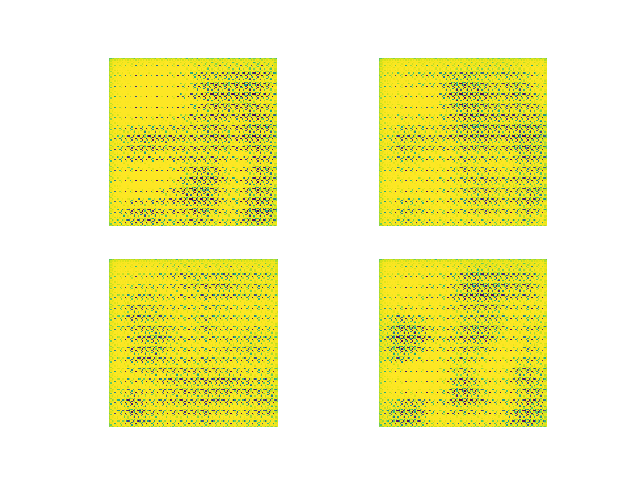
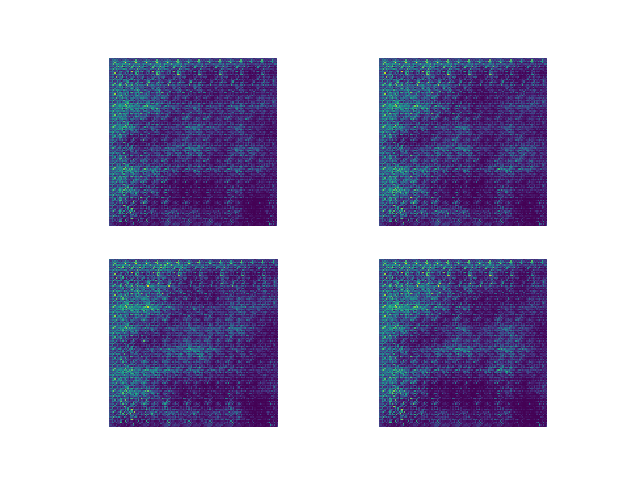
Updated GAN for prostate data
GAN works better with prostate data (ie, does not fail completely). Still does not work though. Believe issues may be do to data limitations

diff --git a/MutliChannelGAN/BuildGAN.py b/MutliChannelGAN/BuildGAN.py
@@ -14,9 +14,9 @@ import matplotlib.pyplot as plt
 
 import datetime
 
-# from MutliChannelGAN.DataGenerator import data_generator
-
-from MutliChannelGAN.MNIST_Generator import MNIST_Generator as data_generator
+from MutliChannelGAN.DataGenerator import data_generator
+#
+# from MutliChannelGAN.MNIST_Generator import MNIST_Generator as data_generator
 
 class MuiltiChannelGAN():
 
@@ -25,15 +25,15 @@ class MuiltiChannelGAN():
         tf.random.set_random_seed(1)
         np.random.seed(10)
 
-        self.batch_size = 1024
-        self.epochs = 800
+        self.batch_size = 90
+        self.epochs = 400
 
-        self.sample_size = (32, 32)
+        self.sample_size = (128, 128)
         self.number_channels = 1
 
         self.img_shape = self.sample_size + (self.number_channels,)
 
-        self.latent_dim = 100
+        self.latent_dim = 200
 
         patch = int(self.sample_size[0] / 2**4)
         self.disc_patch = (patch, patch, 1)
@@ -88,15 +88,27 @@ class MuiltiChannelGAN():
 
         noise = KL.Input(shape=(self.latent_dim,))
 
-        x = KL.Dense(128 * 8 * 8)(noise)
-        x = KL.Reshape((8, 8, 128))(x)
+        x = KL.Dense(512 * 4 * 4)(noise)
+        x = KL.Reshape((4, 4, 512))(x)
         x = KL.BatchNormalization(momentum=momentum)(x)
 
-        x = KL.Conv2DTranspose(128, 3, strides=2, padding='same')(x)
+        x = KL.Conv2DTranspose(512, 5, strides=2, padding='same')(x)
         x = KL.BatchNormalization(momentum=momentum)(x)
         x = KL.Activation('relu')(x)
 
-        x = KL.Conv2DTranspose(64, 3, strides=2, padding='same')(x)
+        x = KL.Conv2DTranspose(256, 5, strides=2, padding='same')(x)
+        x = KL.BatchNormalization(momentum=momentum)(x)
+        x = KL.Activation('relu')(x)
+
+        x = KL.Conv2DTranspose(128, 5, strides=2, padding='same')(x)
+        x = KL.BatchNormalization(momentum=momentum)(x)
+        x = KL.Activation('relu')(x)
+
+        x = KL.Conv2DTranspose(64, 5, strides=2, padding='same')(x)
+        x = KL.BatchNormalization(momentum=momentum)(x)
+        x = KL.Activation('relu')(x)
+
+        x = KL.Conv2DTranspose(32, 5, strides=2, padding='same')(x)
         x = KL.BatchNormalization(momentum=momentum)(x)
         x = KL.Activation('relu')(x)
 
@@ -105,7 +117,7 @@ class MuiltiChannelGAN():
         # x = KL.Activation('relu')(x)
 
 
-        x = KL.Conv2D(self.number_channels, 5, padding='same')(x)
+        x = KL.Conv2D(self.number_channels, 3, padding='same')(x)
         x = KL.Activation('tanh')(x)
 
 
@@ -196,43 +208,46 @@ class MuiltiChannelGAN():
 
         start_time = datetime.datetime.now()
 
-        sample_interval = 20
+        sample_interval = 25
 
-        # file_path = '../prostate_data'
-        # df = pd.read_pickle('../build_dataframe/dataframe_slice.pickle')
-        # img_filelist = df['image_filename'].loc[df['train_val_test'] == 'train'].values
+        file_path = '../prostate_data'
+        df = pd.read_pickle('../build_dataframe/dataframe_slice.pickle')
+        img_filelist = df['image_filename'].loc[df['train_val_test'] == 'train'].values
+
+        label_filelist = df['label_filename'].loc[df['train_val_test'] == 'train'].values
+
+
+
+        batch_step_size = int(len(img_filelist) / self.batch_size)
+
+        train_gen = data_generator(img_filelist[:batch_step_size * self.batch_size],
+                                   label_filelist[:batch_step_size * self.batch_size],
+                                   file_path, batch_size=self.batch_size, sample_size=self.sample_size,
+                                   shuffle=True, augment=False)
+
+
+        # file_path = 'mnist_train.csv'
         #
-        # label_filelist = df['label_filename'].loc[df['train_val_test'] == 'train'].values
+        #
+        # batch_step_size = int(60000 / self.batch_size)
+        #
+        # train_gen = data_generator(file_path, self.batch_size)
         #
         #
+        # # Load the dataset
+        # (X_train, _), (_, _) = mnist.load_data()
         #
-        # batch_step_size = int(len(img_filelist) / self.batch_size)
+        # X_train = np.pad(X_train, ((0, 0), (2, 2), (2, 2)), mode='constant', constant_values=0)
         #
-        # train_gen = data_generator(img_filelist[:batch_step_size * self.batch_size],
-        #                            label_filelist[:batch_step_size * self.batch_size],
-        #                            file_path, batch_size=self.batch_size, sample_size=self.sample_size,
-        #                            shuffle=True, augment=False)
-
-
-        file_path = 'mnist_train.csv'
-
-
-        batch_step_size = int(60000 / self.batch_size)
-
-        train_gen = data_generator(file_path, self.batch_size)
-
-
-        # Load the dataset
-        (X_train, _), (_, _) = mnist.load_data()
-
-        X_train = np.pad(X_train, ((0, 0), (2, 2), (2, 2)), mode='constant', constant_values=0)
-
-        X_train = (X_train.astype(np.float32) / 127.5) - 1
-        X_train = np.expand_dims(X_train, axis=-1)
-
-        N_sample = X_train.shape[0]
-        N_batch_step = int(N_sample / self.batch_size)
-        # half_batch = int(self.batch_size/2)
+        # # X_train = (X_train.astype(np.float32) / 127.5) - 1
+        #
+        # X_train = (X_train.astype(np.float32) - X_train.min()) / (X_train.max() - X_train.min())
+        #
+        # X_train = np.expand_dims(X_train, axis=-1)
+        #
+        # N_sample = X_train.shape[0]
+        # N_batch_step = int(N_sample / self.batch_size)
+        # # half_batch = int(self.batch_size/2)
 
 
         # Adversarial loss ground truths
@@ -242,12 +257,13 @@ class MuiltiChannelGAN():
 
 
         for epoch in range(self.epochs):
-            for batch_i in range(1): #range(batch_step_size):
+            for batch_i in range(batch_step_size): #range(batch_step_size):
 
-                # # Select a random batch of images
-                # imgs = next(train_gen)
-                idx = np.random.randint(0, X_train.shape[0], self.batch_size)
-                imgs = X_train[idx]
+                # Select a random batch of images
+                imgs = next(train_gen)
+
+                # idx = np.random.randint(0, X_train.shape[0], self.batch_size)
+                # imgs = X_train[idx]
 
 
                 # ---------------------
@@ -283,14 +299,23 @@ class MuiltiChannelGAN():
 
                 elapsed_time = datetime.datetime.now() - start_time
 
-                print("%d [D loss_real: %f, loss_fake: %f, acc_real: %.2f%%, acc_fake: %.2f%%] [G loss: %f] time: %s" % (
+                # print("%d [D loss_real: %f, loss_fake: %f, acc_real: %.2f%%, acc_fake: %.2f%%] [G loss: %f] time: %s" % (
+                #     epoch,
+                #     d_loss_real[0],
+                #     d_loss_fake[0],
+                #     100 * d_loss_real[1],
+                #     100 * d_loss_fake[1],
+                #     g_loss,
+                #     elapsed_time))
+
+
+                print("%d [D loss: %f, acc: %.2f%%] [G loss: %f] time: %s" % (
                     epoch,
-                    d_loss_real[0],
-                    d_loss_fake[0],
-                    100 * d_loss_real[1],
-                    100 * d_loss_fake[1],
+                    d_loss[0],
+                    d_loss[1] * 100,
                     g_loss,
                     elapsed_time))
+
 
                 # If at save interval => save generated image samples
                 if ((epoch + 1) % sample_interval == 0) and (batch_i == 0):
@@ -309,7 +334,7 @@ class MuiltiChannelGAN():
         cnt = 0
         for i in range(r):
             for j in range(c):
-                axs[i, j].imshow(gen_imgs[cnt, :, :, 0], cmap='gray')
+                axs[i, j].imshow(gen_imgs[cnt, :, :, 0])
                 axs[i, j].axis('off')
                 cnt += 1
         fig.savefig("images/%d.png" % epoch)

diff --git a/MutliChannelGAN/DataGenerator.py b/MutliChannelGAN/DataGenerator.py
@@ -138,7 +138,7 @@ def data_generator(img_filelist, label_filelist, file_path, batch_size, sample_s
             # x_mean_list.append(x.mean())
 
 
-            img = (img - img.min()) / (img.max() - img.min()) * 255
+            img = (img - img.min()) / (img.max()/2 - img.min()) - 1
 
 
             if augment==True:
